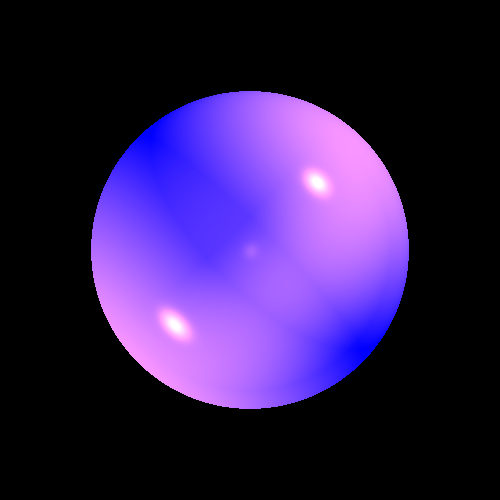
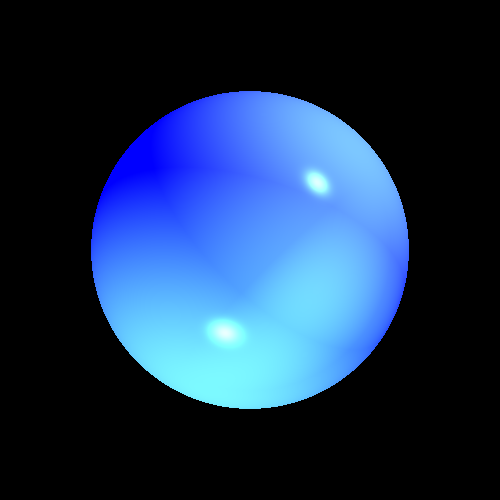
all comments till targil 6+ multipleLights tests

diff --git a/Tests/elements/LightsTests.java b/Tests/elements/LightsTests.java
@@ -152,11 +152,11 @@ public class LightsTests {
     @Test
     public void sphereMultipleLights() {
         scene1.geometries.add(sphere);
-        scene1.lights.add(new DirectionalLight(new Color(500, 300, 0), new Vector(10, 10, -1)));
-        scene1.lights.add(new PointLight(new Color(500, 300, 0), new Point3D(150, 150, 50))//
-                .setKl(0.0000001).setKq(0.00000001));
-        scene1.lights.add(new SpotLight(new Color(500, 300, 0), new Point3D(0, 0, 50), new Vector(10, -10, -2)) //
-                .setKl(0.0000001).setKq(0.0000000001));
+        scene1.lights.add(new DirectionalLight(new Color(250, 500, 0), new Vector(3, 10, -5)));
+        scene1.lights.add(new PointLight(new Color(250, 400, 0), new Point3D(150, 150, 50))//
+                .setKl(0.0000003).setKq(0.00000003));
+        scene1.lights.add(new SpotLight(new Color(250, 500, 0), new Point3D(0, 0, 50), new Vector(10, -10, 2)) //
+                .setKl(0.0000003).setKq(0.0000000003));
 
         ImageWriter imageWriter = new ImageWriter("sphereMultipleLights", 500, 500);
         Render render = new Render()//
@@ -172,14 +172,14 @@ public class LightsTests {
      */
     @Test
     public void triangleMultipleLights() {
-        scene2.geometries.add(triangle1.setMaterial(new Material().setKd(0.5).setKs(0.5).setShininess(300)),
-                triangle2.setMaterial(new Material().setKd(0.5).setKs(0.5).setShininess(300)));
-        scene2.lights.add(new DirectionalLight(new Color(300, 150, 150), new Vector(0, 0, -1)));
-        scene2.lights.add(new PointLight(new Color(500, 250, 250), new Point3D(-80, -80, -130)) //
-                .setKl(0.00005).setKq(0.00005));
-        scene2.lights.add(new SpotLight(new Color(500, 250, 250), new Point3D(0, -80, -130), new Vector(6, 6, -1)) //
-                .setKl(0.0001).setKq(0.000005));
-        ImageWriter imageWriter = new ImageWriter("lightTriangles", 500, 500);
+        scene2.geometries.add(triangle1.setMaterial(new Material().setKd(0.2).setKs(0.2).setShininess(200)),
+                triangle2.setMaterial(new Material().setKd(0.2).setKs(0.2).setShininess(200)));
+        scene2.lights.add(new DirectionalLight(new Color(300, 150, 300), new Vector(0, 0, -1)));
+        scene2.lights.add(new PointLight(new Color(150, 250, 500), new Point3D(10, -20, -100)) //
+                .setKl(0.00001).setKq(0.00001));
+        scene2.lights.add(new SpotLight(new Color(250, 250, 500), new Point3D(5, -40, -90), new Vector(1, 1, -3)) //
+                .setKl(0.0001).setKq(0.000002));
+        ImageWriter imageWriter = new ImageWriter("triangleMultipleLights", 500, 500);
         Render render = new Render()//
                 .setImageWriter(imageWriter) //
                 .setCamera(camera2) //

diff --git a/src/renderer/RayTracerBase.java b/src/renderer/RayTracerBase.java
@@ -13,6 +13,7 @@ abstract public class RayTracerBase {
     protected Scene _scene;
 
     /**
+     * constructor for scene
      * @param scene scene
      * @return the closest point to _p0
      */
@@ -21,6 +22,8 @@ abstract public class RayTracerBase {
     }
 
     /**
+     * find intersections between ray and geometries in the scene,
+     * and return the color of the geometry at the intersection point
      * @param ray ray to trace
      * @return color of scene at the intersection point
      */

diff --git a/src/renderer/BasicRayTracer.java b/src/renderer/BasicRayTracer.java
@@ -31,6 +31,8 @@ public class BasicRayTracer extends RayTracerBase {
     }
 
     /**
+     * find intersections between ray and geometries in the scene,
+     * and return the color of the geometry at the intersection point
      * @param ray ray to trace
      * @return color of scene at the intersection point
      */
